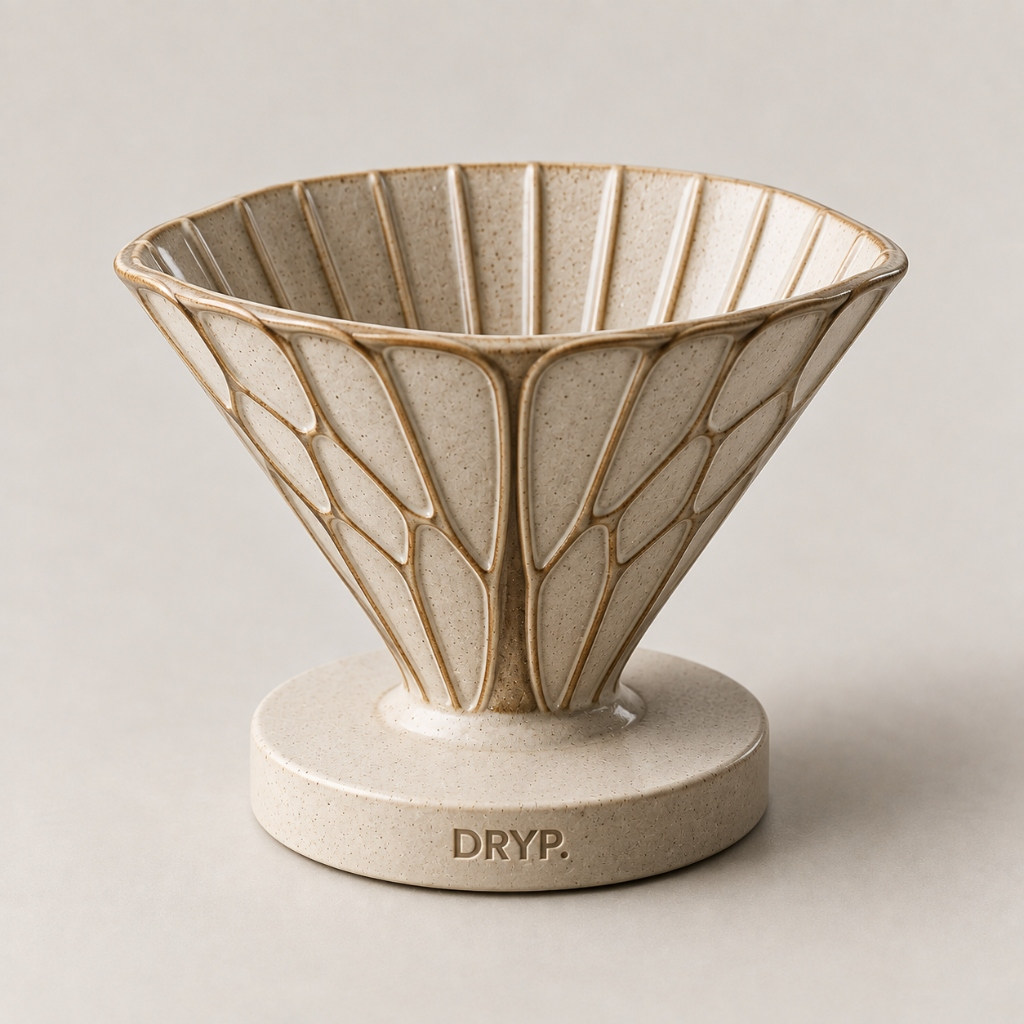
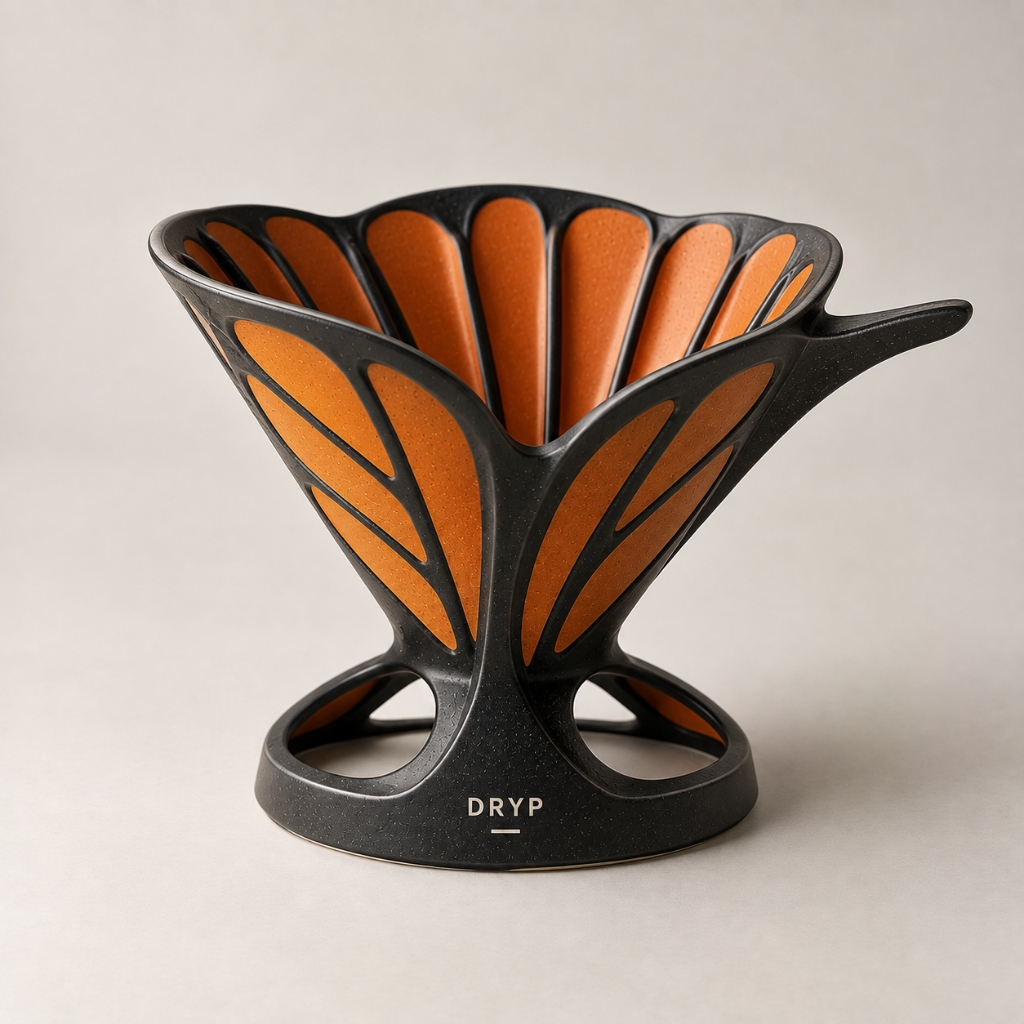
fix: replace Dragonfly dripper with Monarch butterfly wings ceramic render and copy

diff --git a/dripper-app/src/i18n/localizedData.ts b/dripper-app/src/i18n/localizedData.ts
@@ -1046,18 +1046,18 @@ export const LOCALIZED_PRODUCTS: Record<Language, Product[]> = {
       categoryTag: 'Editions',
       dropCode: 'BIO 02',
       eyebrow: 'BIO 02',
-      name: 'Nervadura Botánica & Alas de Libélula',
-      headline: 'Fractal perfection inspired by dragonfly wings and mountain foliage.',
-      story: 'Sculpted in ivory porcelain with delicate raised venation ridges evoking dragonfly wing cellular structures and high-altitude flora, highlighted by toasted caramel reactive glaze.',
-      objectDescription: 'External and internal relief ribs act as natural convective channels, promoting optimal degassing during pre-infusion while retaining bright floral aromatics.',
+      name: 'Alas de Mariposa Monarca',
+      headline: 'Weightless elegance inspired by monarch butterfly wings and morning forest light.',
+      story: 'Sculpted in velvety matte charcoal-black ceramic with wing-cellular panels filled in rich amber-orange reactive glaze, an undulating petal rim, an extended wing-tip grip, and an open helical base stamped with DRYP.',
+      objectDescription: 'The fluted wing ribs create natural air-relief channels that promote uniform extraction and optimal thermal stability, accentuating bright floral notes, peach sweetness, and sparkling citrus acidity.',
       price: 90,
       currency: 'USD',
       stockStatus: 'available',
       stockLabel: 'Available (Cumbres de Neblaria)',
       stockCountRemaining: 20,
       paletteColors: [
-        { name: 'Ivory Porcelain', hex: '#F5F2EA' },
-        { name: 'Toasted Caramel Reactive Glaze', hex: '#B87A3E' }
+        { name: 'Monarch Amber Orange', hex: '#E07A2B' },
+        { name: 'Matte Wing Charcoal', hex: '#1F1F1F' }
       ],
       specs: {
         extractionStyle: 'Silky mouthfeel, intense jasmine florals, and sparkling acidity',
@@ -2113,18 +2113,18 @@ export const LOCALIZED_PRODUCTS: Record<Language, Product[]> = {
       categoryTag: 'Editions',
       dropCode: 'BIO 02',
       eyebrow: 'BIO 02',
-      name: 'Nervadura Botánica & Alas de Libélula',
-      headline: 'Perfección fractal inspirada en alas de libélula y botánica de alta montaña.',
-      story: 'Esculpido en porcelana marfil con venaciones biomiméticas en relieve que recrean la estructura celular de las alas de libélula, acentuadas con esmalte reactivo tostado.',
-      objectDescription: 'Las costillas exteriores e interiores actúan como canales de respiración térmica, permitiendo una desgasificación óptima durante la preinfusión y resaltando notas florales vivas.',
+      name: 'Alas de Mariposa Monarca',
+      headline: 'La delicadeza ingrávida de las alas de mariposa abriéndose a la luz matutina.',
+      story: 'Esculpido en cerámica negra aterciopelada con celdas aladas esmaltadas en un vivo naranja ambarino, borde ondulado en pétalos, vertedor de apoyo en ala y base helicoidal calada con el sello grabado DRYP.',
+      objectDescription: 'Las nervaduras interiores acanaladas actúan como conductos de ventilación natural, logrando una extracción uniforme y una gran estabilidad térmica que resalta notas florales, dulzor a melocotón y una acidez brillante.',
       price: 90,
       currency: 'USD',
       stockStatus: 'available',
       stockLabel: 'Disponible (Cumbres de Neblaria)',
       stockCountRemaining: 20,
       paletteColors: [
-        { name: 'Porcelana Marfil', hex: '#F5F2EA' },
-        { name: 'Esmalte Caramelo Reactivo', hex: '#B87A3E' }
+        { name: 'Naranja Monarca Ámbar', hex: '#E07A2B' },
+        { name: 'Negro Carbón Aterciopelado', hex: '#1F1F1F' }
       ],
       specs: {
         extractionStyle: 'Sensación sedosa en boca, intensas notas florales de jazmín y acidez brillante',

diff --git a/dripper-app/src/data/pinterestPinsData.ts b/dripper-app/src/data/pinterestPinsData.ts
@@ -319,11 +319,12 @@ export const DRYP_DRIPS: DrypDrip[] = [
     dropCode: 'BIO 01',
     level01Emotion: 'El rocío fresco sobre las hojas verdes del bosque de niebla y el aleteo fugaz de las aves al amanecer.'
   },
+
   {
     id: 'drip-nature-venation',
     productId: 'nature-botanical-wings',
-    title: '06 / Alas de Libélula',
-    subtitle: 'Porcelana marfil con relieve biomimético y canales de ventilación. Extracción dulce de máxima claridad aromática.',
+    title: '06 / Alas de Mariposa Monarca',
+    subtitle: 'Cerámica negra mate con paneles alados en esmalte naranja ambarino, festón biomimético, vertedor alado y base helicoidal con sello DRYP.',
     category: 'Nature',
     categoryLabel: 'Naturaleza',
     imageSrc: '/images/products/nature-venation.jpg',
@@ -337,13 +338,13 @@ export const DRYP_DRIPS: DrypDrip[] = [
     price: 90,
     stockStatus: 'available',
     stockLabel: 'Disponible (Cumbres de Neblaria)',
-    likesCount: 3120,
-    savesCount: 7450,
+    likesCount: 3890,
+    savesCount: 9140,
     boardIds: ['board-nature'],
-    tags: ['Naturaleza', 'Nervadura', 'Libélula', 'Botánica', 'Marfil', 'Caramelo'],
-    badge: 'BOTÁNICA VIVA',
+    tags: ['Naturaleza', 'Mariposa', 'Monarca', 'Alas', 'Naranja', 'Negro Mate', 'Biomimético'],
+    badge: 'MONARCH WINGS',
     dropCode: 'BIO 02',
-    level01Emotion: 'La perfección fractal de las alas de una libélula posada sobre el agua cristalina del río al amanecer.'
+    level01Emotion: 'La delicadeza ingrávida de las alas de mariposa abriéndose hacia la luz del sol en las mañanas de bosque.'
   },
 
   // ── PREHISTORIA (3 drips únicos) ──────────────────────────────────────────
